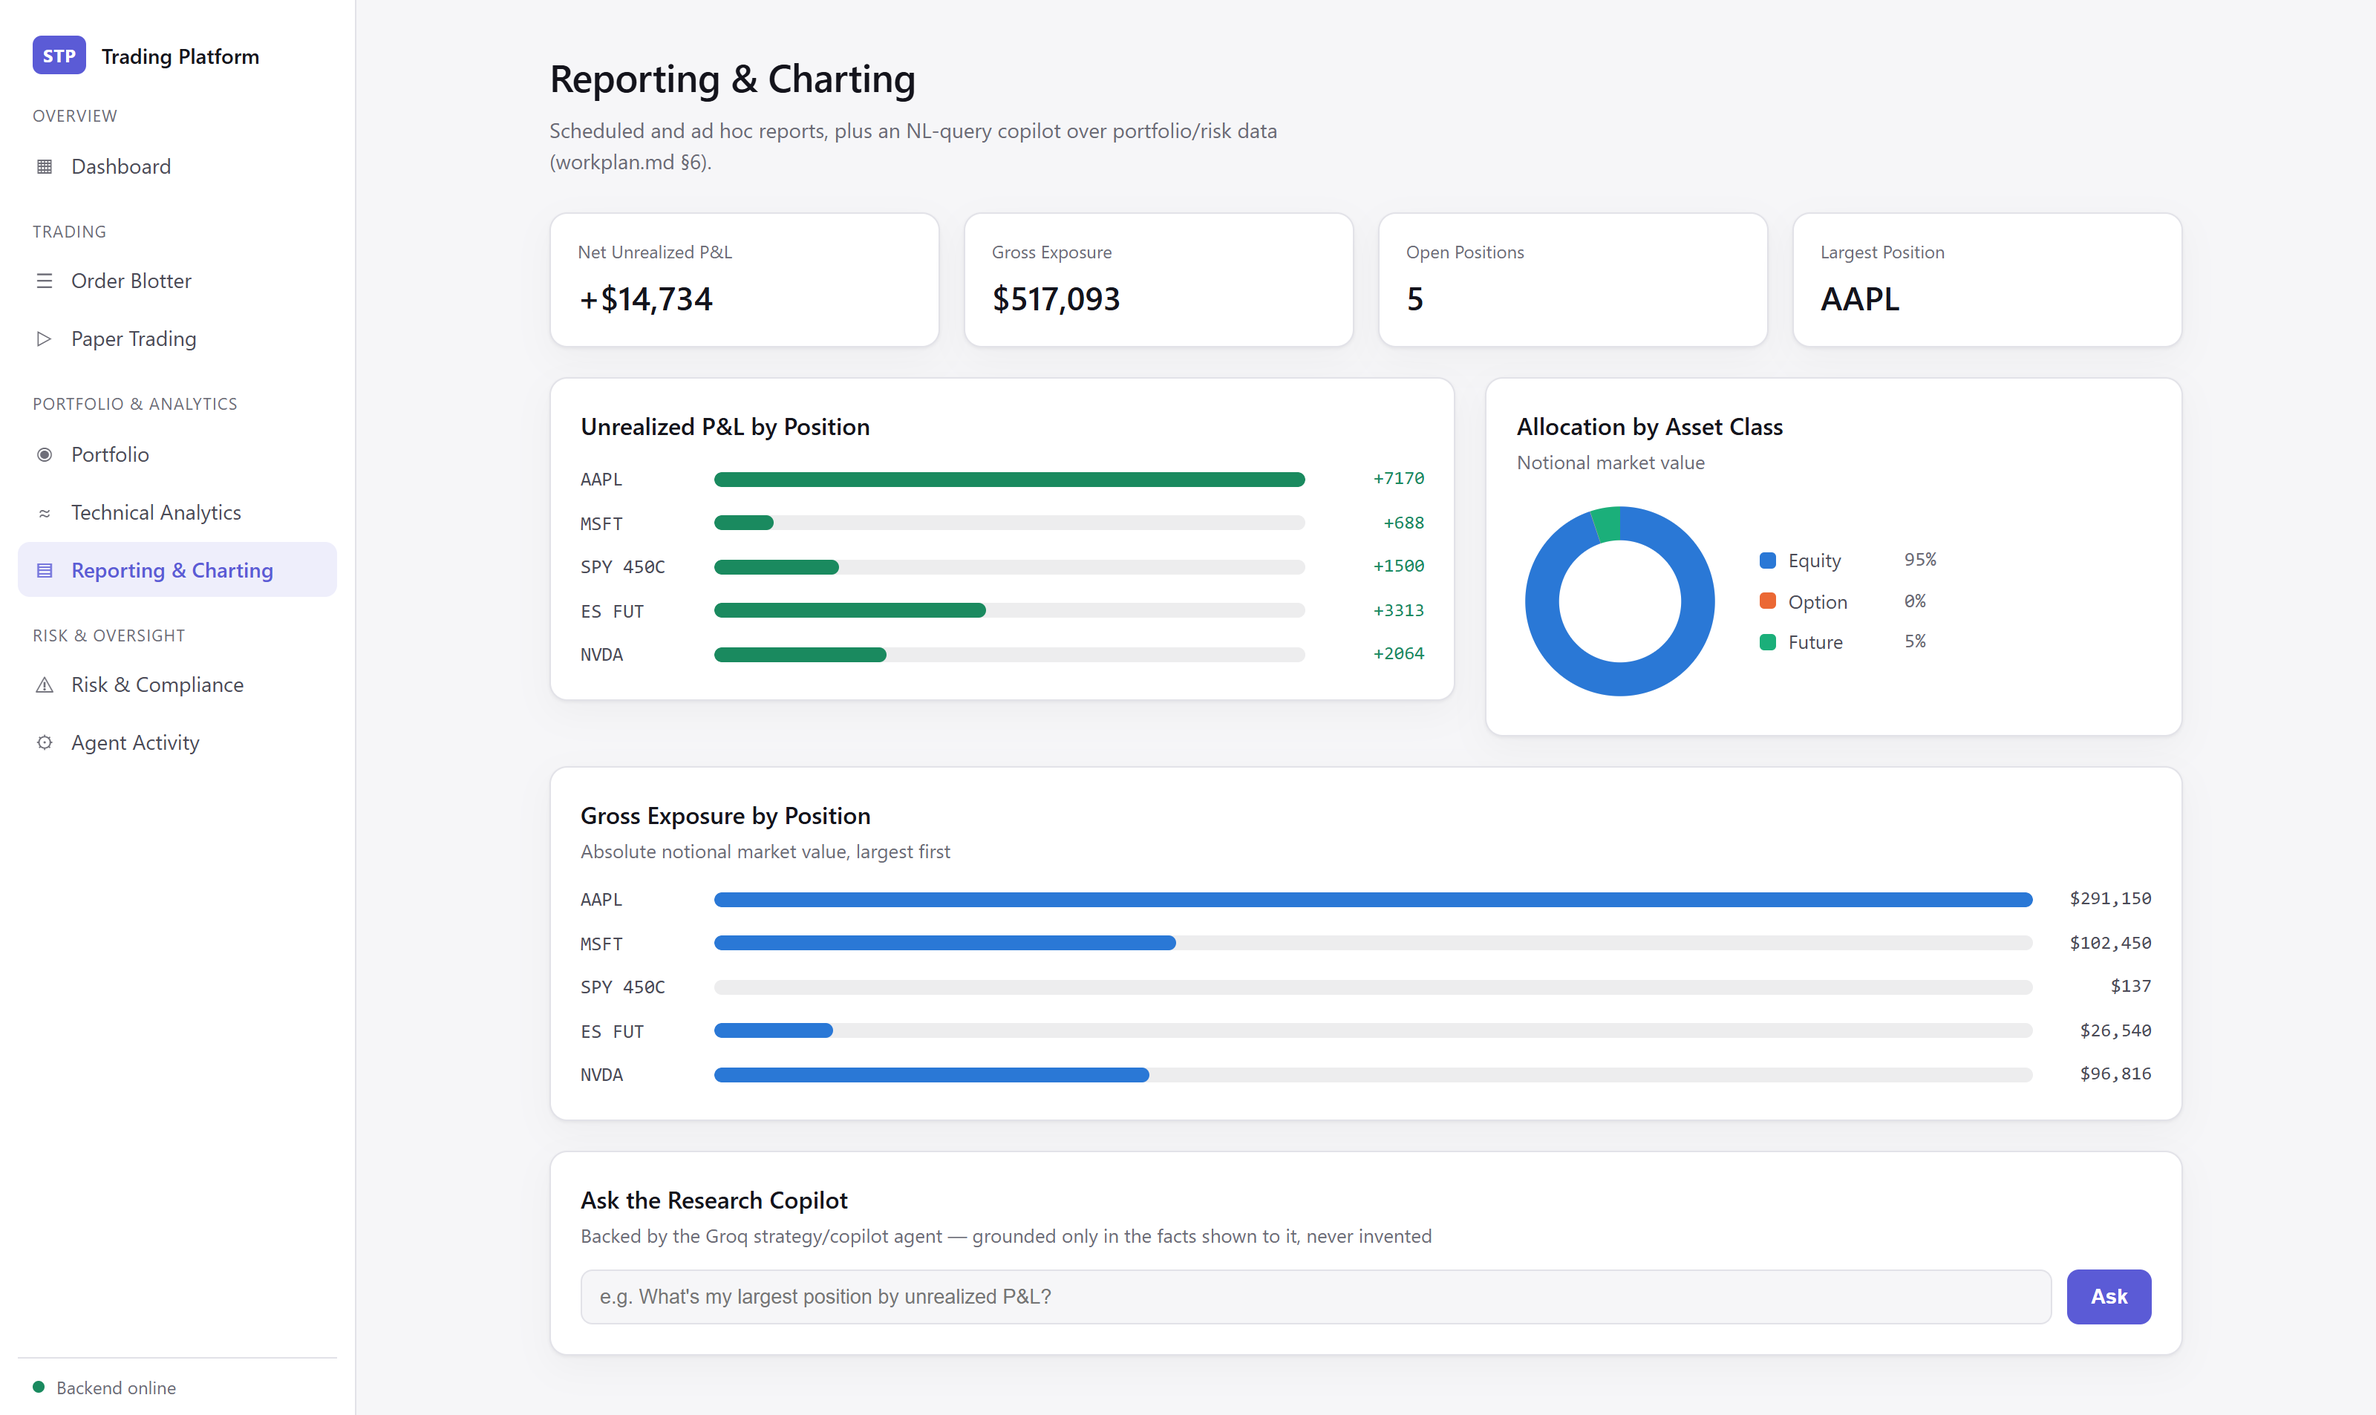
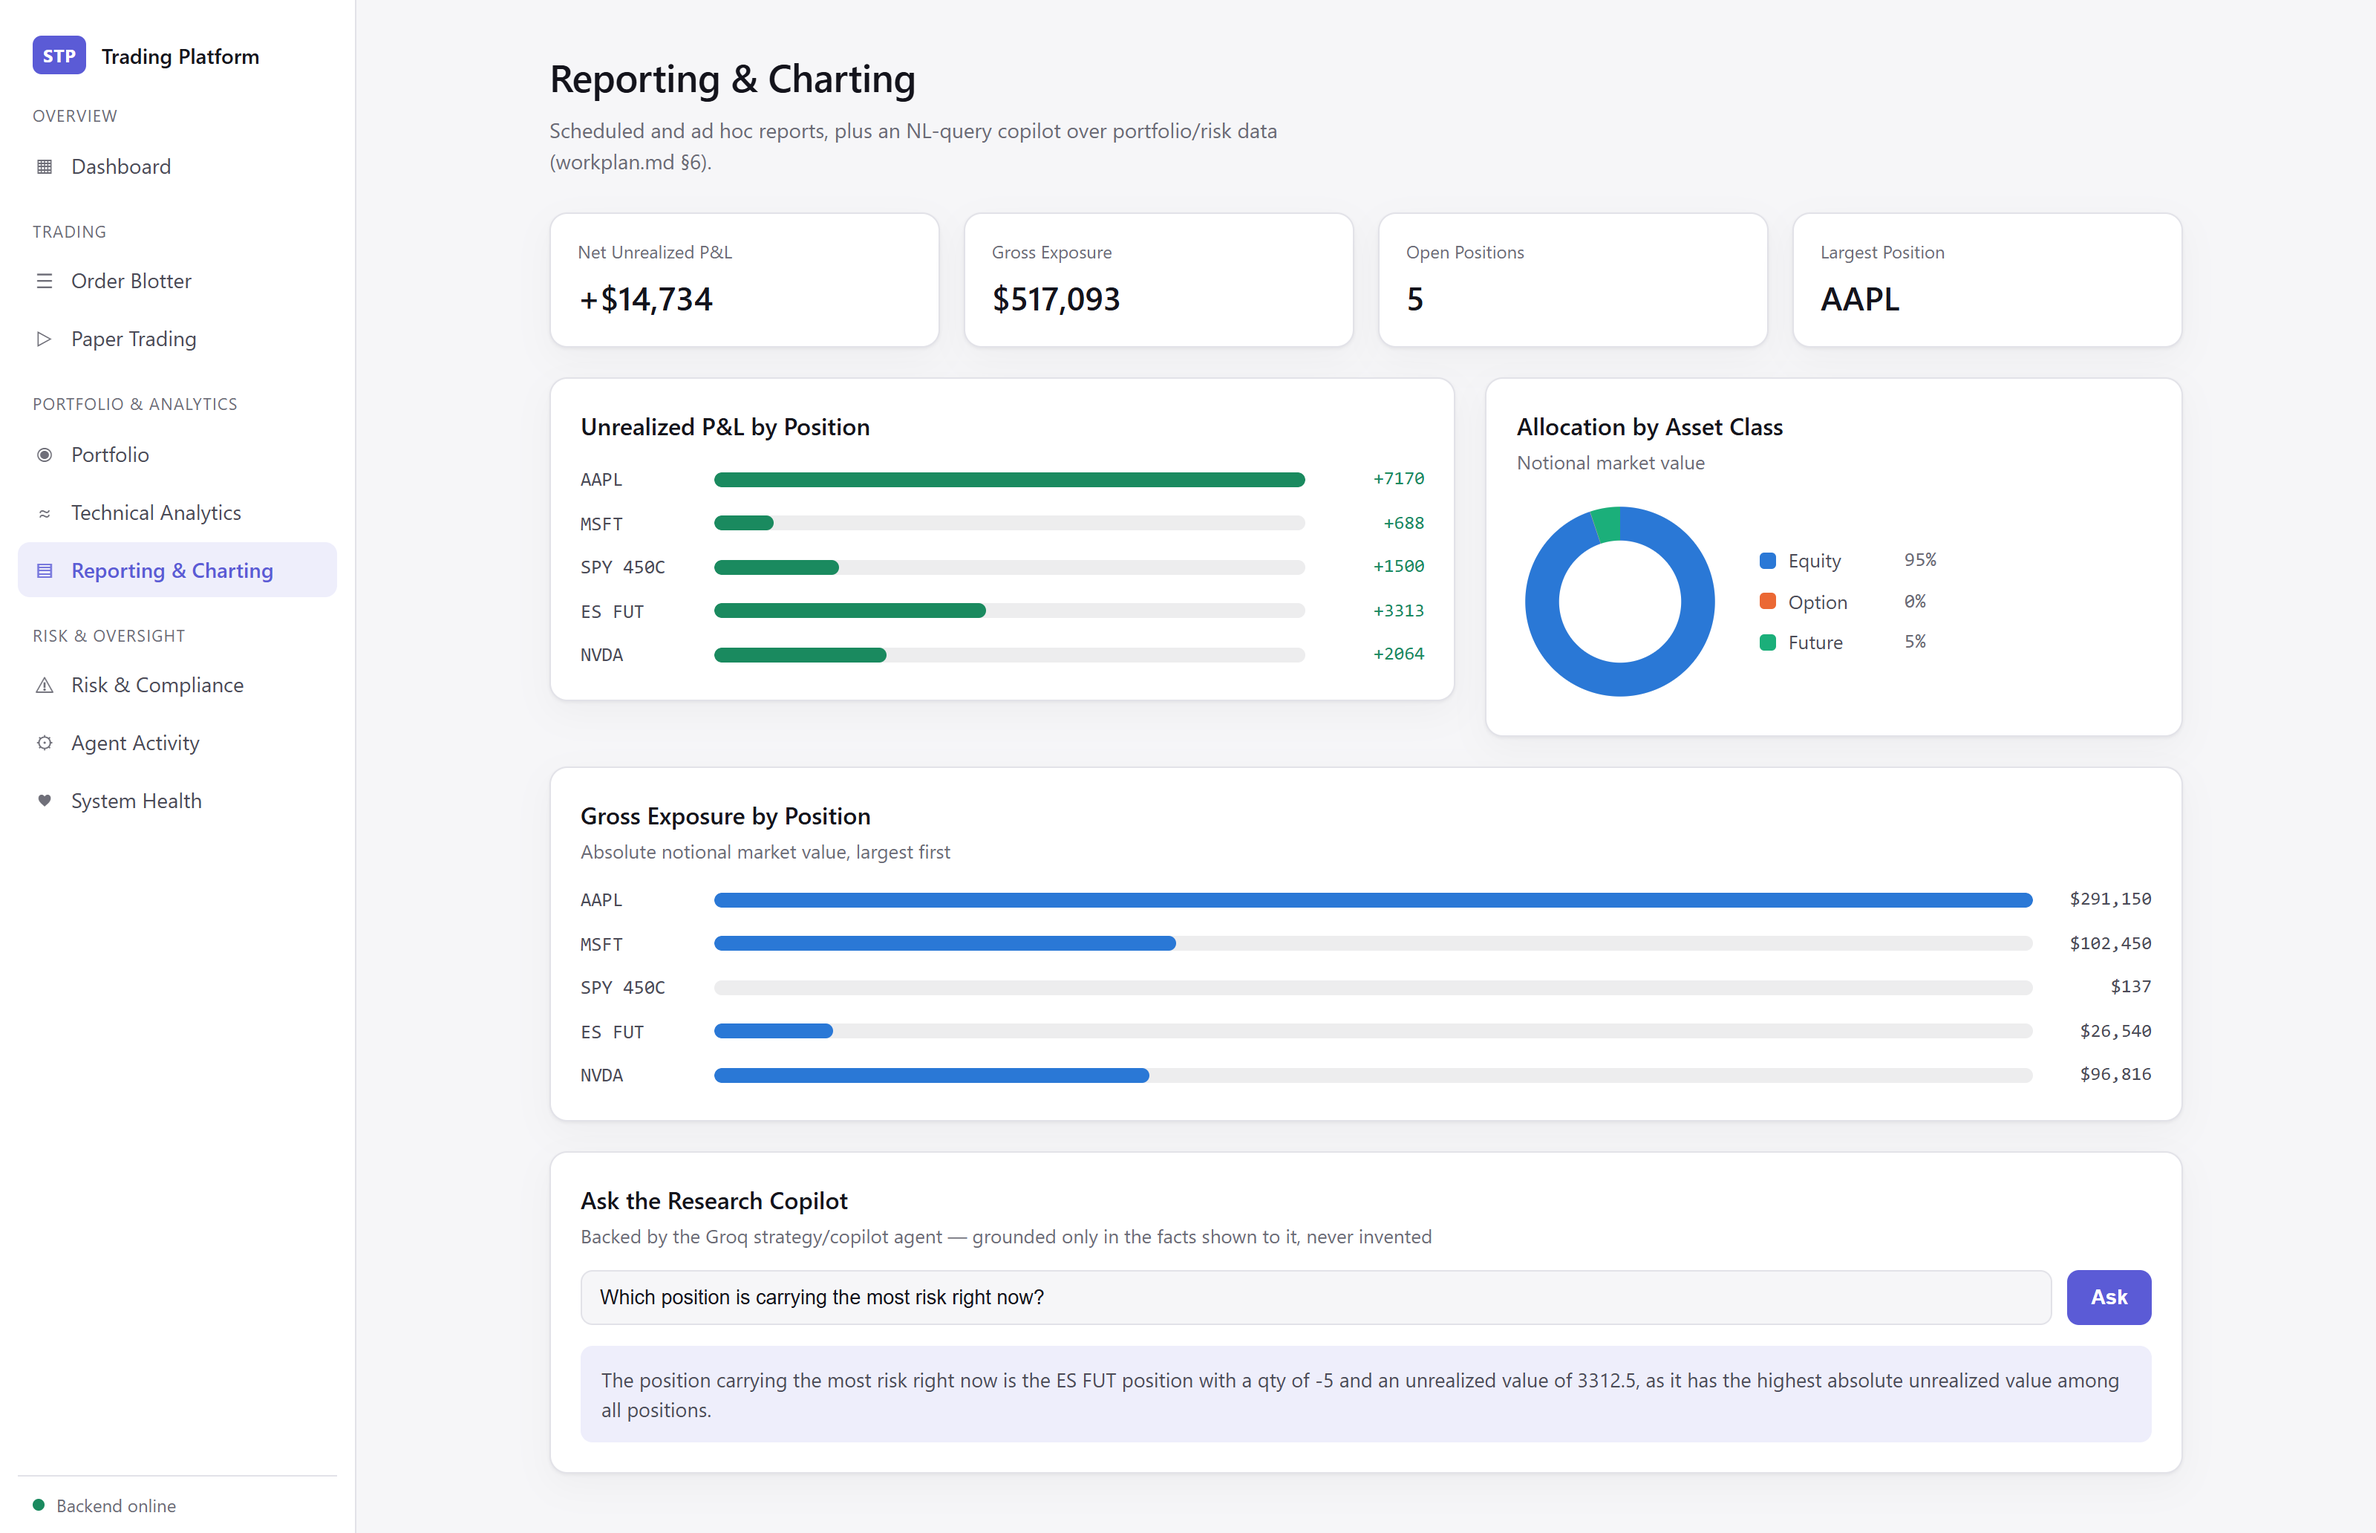
Fix event-loop lag NaN, bar label overflow, and mixed-bar-size Sharpe
Three issues visible on the new System Health page:

- prom-client resets its event-loop-lag histogram on every collection, so
  a Prometheus scrape landing between two UI polls left the mean with no
  samples and it reported NaN, rendering as "—". Falls back to the
  instantaneous lag gauge, which is not reset.

- Long labels overflowed across the bar track beside them: the label
  column was a fixed 80px sized for tickers, and route patterns are much
  longer. The column is now overridable per chart and truncates rather
  than bleeding.

- Annualization trusted the median bar gap even when the series had no
  dominant bar size. Replaying daily and 5-minute bars for one symbol
  together scaled the whole series as if every bar were 5 minutes,
  reporting a Sharpe near 9. Such a series now falls back to daily.

diff --git a/frontend/src/components/charts/BarChart.test.jsx b/frontend/src/components/charts/BarChart.test.jsx
@@ -1,0 +1,54 @@
+import { describe, it, expect } from 'vitest'
+import { render, screen } from '@testing-library/react'
+import BarChart from './BarChart.jsx'
+
+const items = [
+  { label: 'AAPL', value: 7170 },
+  { label: 'MSFT', value: -688 },
+]
+
+describe('BarChart', () => {
+  it('renders the empty label when there is nothing to plot', () => {
+    render(<BarChart items={[]} emptyLabel="No requests recorded yet." />)
+    expect(screen.getByText('No requests recorded yet.')).toBeInTheDocument()
+  })
+
+  it('scales each bar against the largest absolute value', () => {
+    const { container } = render(<BarChart items={items} />)
+    const fills = [...container.querySelectorAll('.bar-fill')]
+    expect(fills[0].style.width).toBe('100%')
+    // 688 / 7170 ≈ 10%
+    expect(fills[1].style.width).toBe('10%')
+  })
+
+  it('tones bars by sign unless told otherwise', () => {
+    const { container } = render(<BarChart items={items} />)
+    expect(container.querySelector('.bar-pos')).not.toBeNull()
+    expect(container.querySelector('.bar-neg')).not.toBeNull()
+  })
+
+  it('accepts a constant tone for magnitude-only charts', () => {
+    const { container } = render(<BarChart items={items} toneFor={() => 'neutral'} />)
+    expect(container.querySelectorAll('.bar-accent')).toHaveLength(2)
+    expect(container.querySelector('.bar-neg')).toBeNull()
+  })
+
+  it('does not divide by zero when every value is zero', () => {
+    const { container } = render(<BarChart items={[{ label: 'FLAT', value: 0 }]} />)
+    expect(container.querySelector('.bar-fill').style.width).toBe('0%')
+  })
+
+  it('widens the label column on request, for labels that do not fit the default', () => {
+    // Route patterns are far longer than a ticker; without this the label overflows
+    // across the bar track beside it.
+    const { container } = render(
+      <BarChart items={[{ label: '/api/simulation/:id/step', value: 300 }]} labelWidth="260px" />,
+    )
+    expect(container.querySelector('.bar-chart').style.getPropertyValue('--bar-label-width')).toBe('260px')
+  })
+
+  it('leaves the label width unset when not specified', () => {
+    const { container } = render(<BarChart items={items} />)
+    expect(container.querySelector('.bar-chart').style.getPropertyValue('--bar-label-width')).toBe('')
+  })
+})

diff --git a/backend/src/routes/metrics.js b/backend/src/routes/metrics.js
@@ -23,9 +23,25 @@ function total(snapshot, name, labelFilter = {}) {
     .reduce((sum, v) => sum + v.value, 0)
 }
 
-/** Single (unlabelled) gauge value. */
+/** Single (unlabelled) gauge value, or 0 if absent. */
 function gauge(snapshot, name) {
   return valuesOf(snapshot, name)[0]?.value ?? 0
+}
+
+/**
+ * First gauge in `names` with a finite value.
+ *
+ * prom-client resets its event-loop-lag histogram every time it's collected, so a
+ * Prometheus scrape landing between two UI polls leaves the *mean* with no samples and it
+ * reports NaN. Falling back to the instantaneous lag gauge — which isn't reset — keeps the
+ * dashboard from flickering to "—" at every scrape.
+ */
+function firstFiniteGauge(snapshot, ...names) {
+  for (const name of names) {
+    const value = valuesOf(snapshot, name)[0]?.value
+    if (Number.isFinite(value)) return value
+  }
+  return 0
 }
 
 /** Mean observation of a histogram, in milliseconds — sum/count, or 0 before any data. */
@@ -108,7 +124,12 @@ export function metricsRouter() {
           residentMemoryMb: gauge(snapshot, 'stp_process_resident_memory_bytes') / 1024 / 1024,
           heapUsedMb: total(snapshot, 'stp_nodejs_heap_size_used_bytes') / 1024 / 1024,
           cpuSecondsTotal: gauge(snapshot, 'stp_process_cpu_seconds_total'),
-          eventLoopLagMs: gauge(snapshot, 'stp_nodejs_eventloop_lag_mean_seconds') * 1000,
+          eventLoopLagMs:
+            firstFiniteGauge(
+              snapshot,
+              'stp_nodejs_eventloop_lag_mean_seconds',
+              'stp_nodejs_eventloop_lag_seconds',
+            ) * 1000,
           activeHandles: gauge(snapshot, 'stp_nodejs_active_handles_total'),
         },
         http: {

diff --git a/frontend/src/components/charts/BarChart.jsx b/frontend/src/components/charts/BarChart.jsx
@@ -6,7 +6,15 @@ const TONE_CLASS = { good: 'bar-pos', bad: 'bar-neg', warn: 'bar-warn', neutral:
  * sign of value, i.e. polarity); pass a constant tone for chart where every bar shares
  * one meaning (e.g. gross exposure — magnitude only, no polarity).
  */
-export default function BarChart({ items, toneFor, formatValue = (v) => v.toFixed(0), emptyLabel = 'No data.' }) {
+export default function BarChart({
+  items,
+  toneFor,
+  formatValue = (v) => v.toFixed(0),
+  emptyLabel = 'No data.',
+  // Width of the label column. Tickers fit the 80px default; long labels such as route
+  // patterns need more room, and would otherwise truncate to an ellipsis.
+  labelWidth,
+}) {
   if (!items || items.length === 0) {
     return <p className="empty-state">{emptyLabel}</p>
   }
@@ -14,7 +22,7 @@ export default function BarChart({ items, toneFor, formatValue = (v) => v.toFixe
   const max = Math.max(...items.map((i) => Math.abs(i.value)), 0)
 
   return (
-    <div className="bar-chart">
+    <div className="bar-chart" style={labelWidth ? { '--bar-label-width': labelWidth } : undefined}>
       {items.map((item) => {
         const pct = max === 0 ? 0 : Math.round((Math.abs(item.value) / max) * 100)
         const tone = toneFor ? toneFor(item) : item.value >= 0 ? 'good' : 'bad'

diff --git a/backend/test/performance.test.js b/backend/test/performance.test.js
@@ -63,6 +63,19 @@ describe('inferPeriodsPerYear', () => {
     expect(inferPeriodsPerYear(series(10, 7 * 24 * 60 * 60 * 1000))).toBe(36)
   })
 
+  it('falls back to daily for a series with no dominant bar size', () => {
+    // Daily and 5-minute bars for one symbol replayed together. The median gap is 5
+    // minutes, but scaling by that would inflate Sharpe roughly 9x on a series that is
+    // mostly daily — so this must not be trusted.
+    const fiveMin = 5 * 60 * 1000
+    const day = 24 * 60 * 60 * 1000
+    const base = new Date('2024-01-02T14:30:00Z').getTime()
+    const bars = []
+    for (let i = 0; i < 40; i++) bars.push({ ts: new Date(base + i * fiveMin).toISOString() })
+    for (let i = 1; i <= 40; i++) bars.push({ ts: new Date(base + 10 * day + i * day).toISOString() })
+    expect(inferPeriodsPerYear(bars)).toBe(252)
+  })
+
   it('uses the median so overnight gaps do not drag an intraday series toward daily', () => {
     const fiveMin = 5 * 60 * 1000
     const base = new Date('2024-01-02T14:30:00Z').getTime()

diff --git a/backend/test/metrics.test.js b/backend/test/metrics.test.js
@@ -263,6 +263,18 @@ describe('metrics endpoints', () => {
       expect(res.body.sessions).toEqual([])
     })
 
+    it('reports a finite event-loop lag even when the mean histogram has just been reset', async () => {
+      enableDefaultMetrics()
+      // prom-client resets its event-loop histogram on every collection, so back-to-back
+      // reads leave the mean with no samples and it reports NaN. The second read here
+      // reproduces that; the endpoint must fall back to the instantaneous lag gauge.
+      await register.getMetricsAsJSON()
+      const res = await request(app).get('/api/metrics/summary')
+
+      expect(res.status).toBe(200)
+      expect(Number.isFinite(res.body.process.eventLoopLagMs)).toBe(true)
+    })
+
     it('includes Node process metrics once default collection is enabled', async () => {
       enableDefaultMetrics()
       const res = await request(app).get('/api/metrics/summary')

diff --git a/backend/src/analytics/performance.js b/backend/src/analytics/performance.js
@@ -31,6 +31,13 @@ export function inferPeriodsPerYear(bars) {
   gaps.sort((a, b) => a - b)
   const median = gaps[Math.floor(gaps.length / 2)]
 
+  // A series with *no* dominant bar size — e.g. daily and 5-minute bars for the same
+  // symbol replayed together — has no meaningful annualization factor, and trusting the
+  // median would scale it as though every bar were 5 minutes, inflating Sharpe roughly
+  // 9x. Fall back to daily when fewer than half the gaps sit near the median.
+  const nearMedian = gaps.filter((g) => g >= median * 0.5 && g <= median * 2).length
+  if (nearMedian / gaps.length < 0.5) return TRADING_PERIODS_PER_YEAR
+
   if (median >= 20 * 60 * 60 * 1000) {
     // Daily or coarser — scale down from 252 for weekly/monthly series.
     return Math.max(1, Math.round(TRADING_PERIODS_PER_YEAR / (median / (24 * 60 * 60 * 1000))))

diff --git a/frontend/src/index.css b/frontend/src/index.css
@@ -542,10 +542,19 @@ code {
 
 .bar-row {
   display: grid;
-  grid-template-columns: 80px 1fr 70px;
+  /* Overridable per chart: ticker labels fit in 80px, route patterns need far more. */
+  grid-template-columns: var(--bar-label-width, 80px) 1fr 70px;
   align-items: center;
   gap: 10px;
   font-size: 13px;
+}
+
+/* Long labels truncate rather than overflowing across the track next to them. */
+.bar-label {
+  overflow: hidden;
+  text-overflow: ellipsis;
+  white-space: nowrap;
+  min-width: 0;
 }
 
 .bar-track {

diff --git a/frontend/src/pages/SystemHealth.jsx b/frontend/src/pages/SystemHealth.jsx
@@ -138,6 +138,7 @@ export default function SystemHealth() {
               toneFor={() => 'neutral'}
               formatValue={(v) => num(v)}
               emptyLabel="No requests recorded yet."
+              labelWidth="260px"
             />
           </Card>
 
